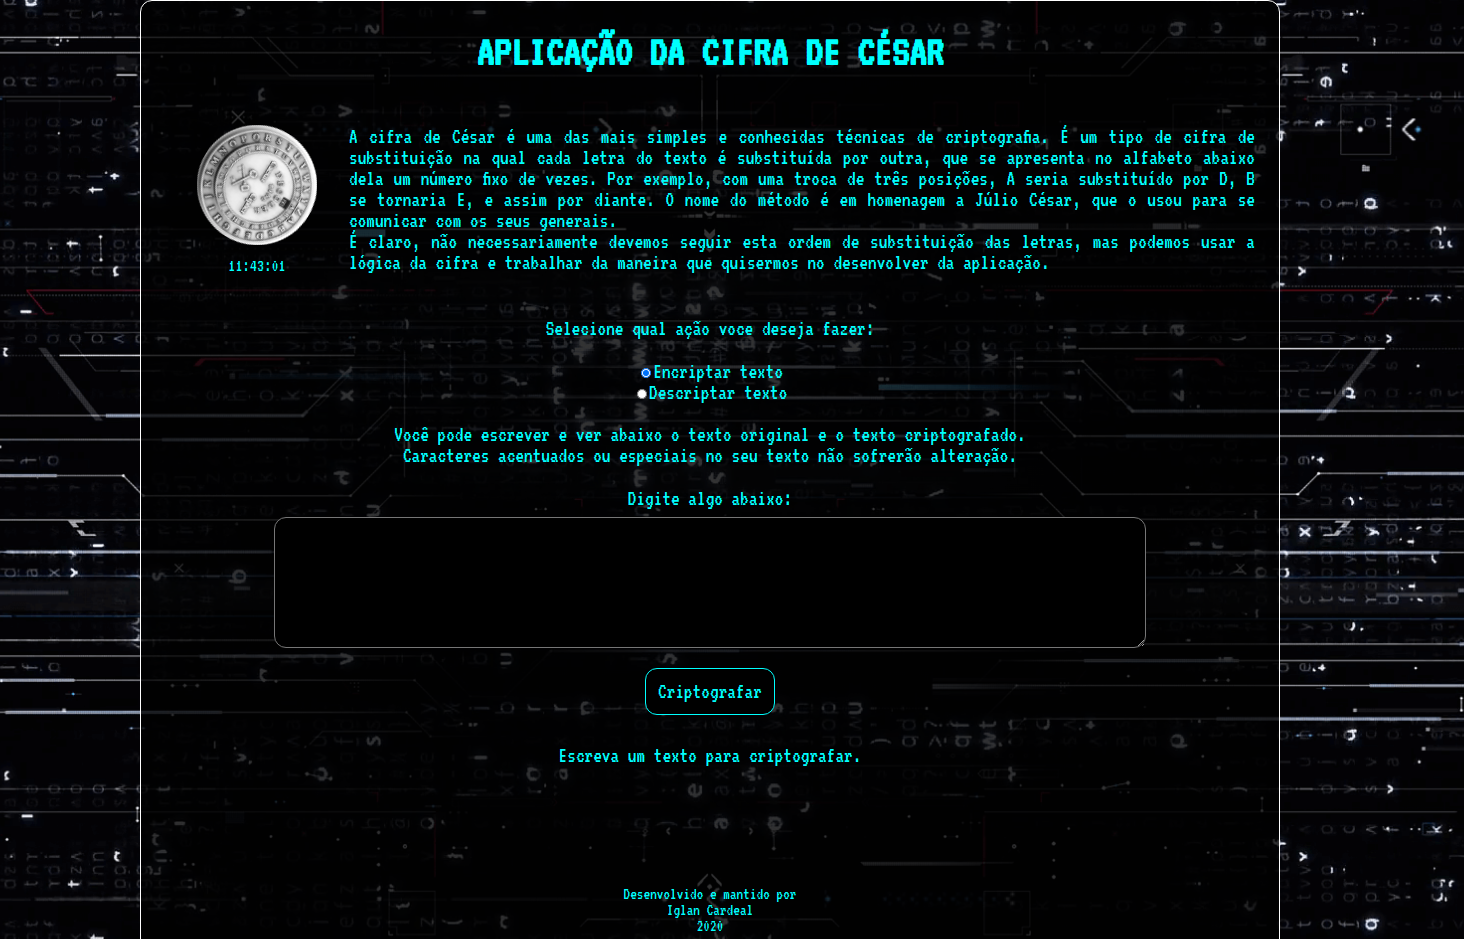
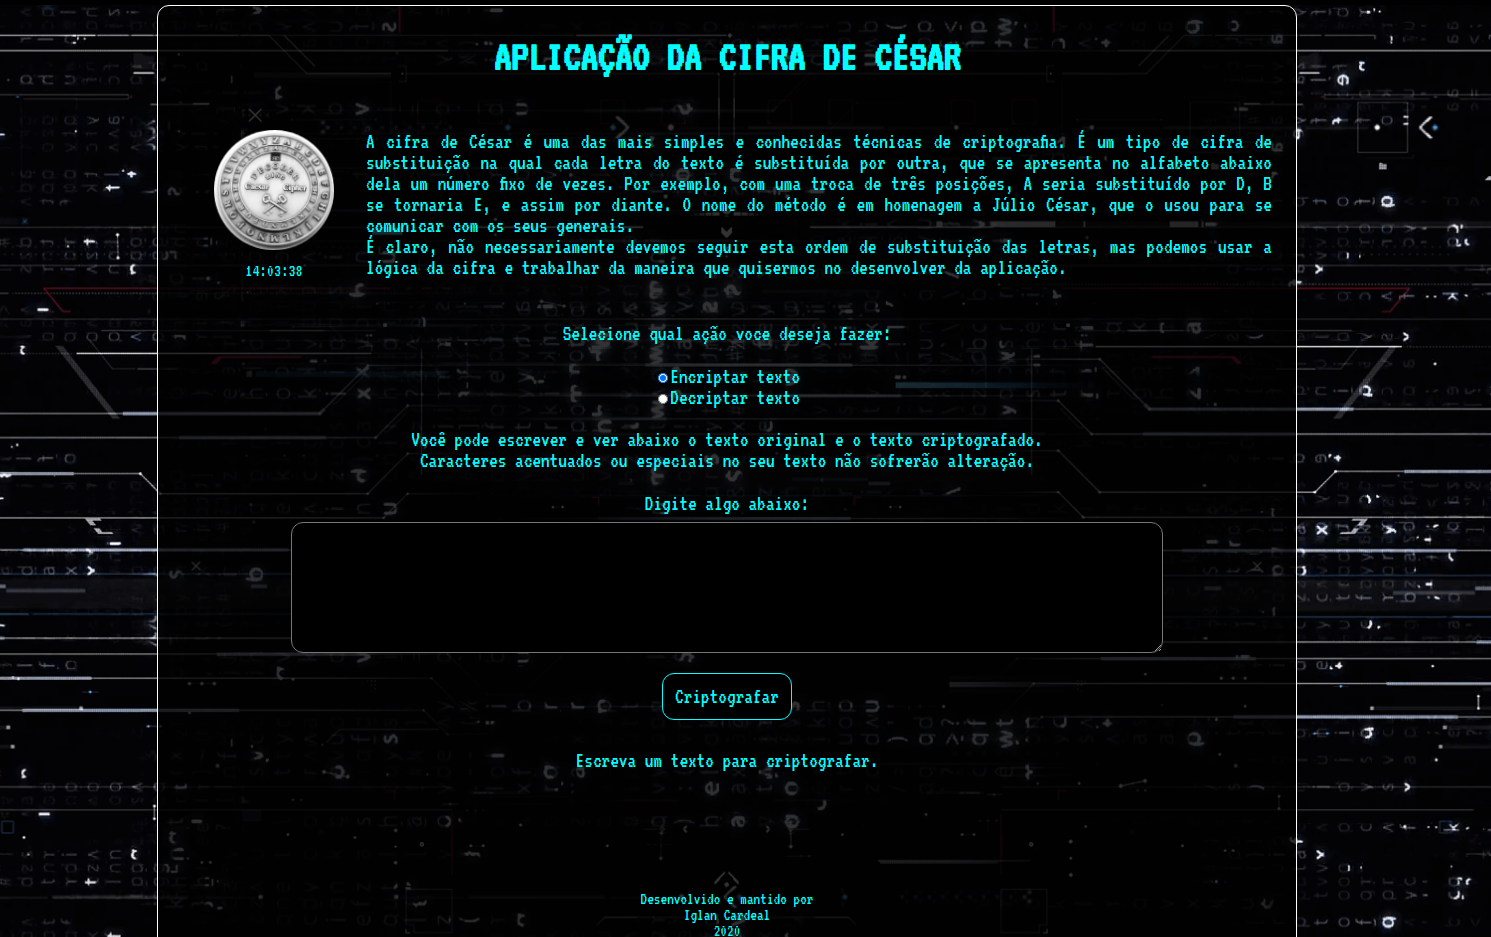
Corrigindo bug da descriptografia.

diff --git a/components/Main/Main.tsx b/components/Main/Main.tsx
@@ -4,7 +4,7 @@ import React, { useState, useEffect } from 'react';
 import styles from './Main.module.css';
 
 const Main: React.FC = (props) => {
-  const [time, setTime] = useState(new Date().toLocaleTimeString('br'));
+  const [time, setTime] = useState('');
 
   useEffect(() => {
     const timer = window.setInterval(() => {
@@ -30,7 +30,7 @@ const Main: React.FC = (props) => {
             width={150}
             height={150}
           />
-          <sub>{time}</sub>
+          <sub>{time || <span>&nbsp;</span>}</sub>
         </figure>
         <p className={styles.AppParagraph}>
           A cifra de César é uma das mais simples e conhecidas técnicas de

diff --git a/components/OutputText/encrypter.ts b/components/OutputText/encrypter.ts
@@ -60,7 +60,15 @@ const encrypter = (text: string, action: string) => {
     }
 
     if (action === 'decrypt') {
-      if (indexAlpha !== -1) return alpha[indexAlpha - 3];
+      if (indexAlpha !== -1) {
+        if (indexAlpha <= 2) {
+          let newArr = ['x', 'y', 'z', ...alpha]
+          console.log(newArr)
+          return newArr[indexAlpha ]
+        }
+
+        return alpha[indexAlpha - 3];
+      }
 
       if (indexNumeric !== -1) return numeric[indexNumeric - 3];
     }

diff --git a/pages/index.tsx b/pages/index.tsx
@@ -51,7 +51,7 @@ export default function Home() {
         <TextInput getInputText={getInputTextHandler} action={action} />
 
         {(inputText && <OriginalText originalText={inputText} />) || (
-          <p>Escreva um texto para criptografar.</p>
+          action === 'crypt' ? <p>Escreva um texto para criptografar.</p> : <p>Escreva um texto para descriptografar.</p>
         )}
 
         {inputText && <Output inputText={inputText} action={action} />}

diff --git a/components/OutputText/Output.tsx b/components/OutputText/Output.tsx
@@ -24,7 +24,7 @@ const DecodedText: React.FC<Props> = (props) => {
 
   return (
     <>
-      <h2>Texto criptografado</h2>
+      <h2>{props.action === 'crypt' ? 'Texto criptografado' : 'Texto descriptografado'}</h2>
       <div className={style.OutputText}>
         <p className={style.OutputTextParagraph}>{cryptedText}</p>
 

diff --git a/README.md b/README.md
@@ -65,6 +65,7 @@ Neste projeto, voçê pode decidir qual ação deve ser realizada, encriptar ou 
    ```
 
 - Decriptar:
+ Voçê usou ou recebeu uma mensagem que foi criptografada nesta aplicação, logo para vê-lo descriptografado, selecione a opção `Decriptar`. O resultado será exibido abaixo, mostrando o texto original(seu texto criptografado) e logo abaixo o texto descriptografado.
 
 ## Como surgiu a idéia?
 
